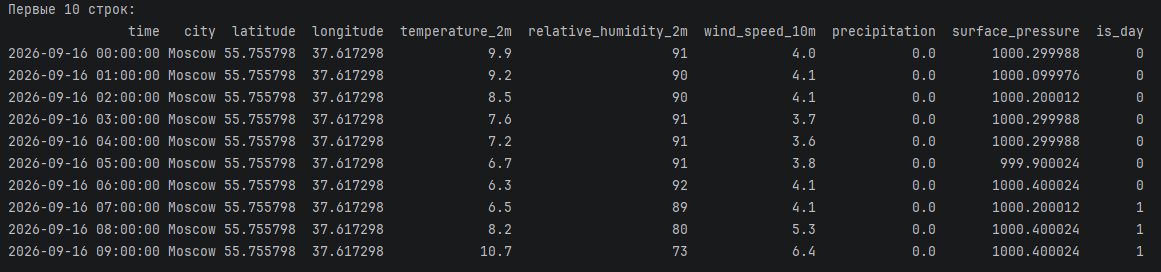
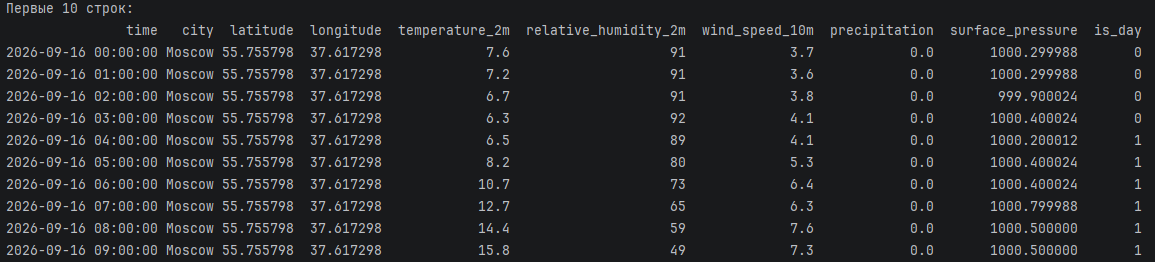
HW4: address review — UTC, forecast_days=1, nullable is_day, backoff

diff --git a/scripts/read_api.py b/scripts/read_api.py
@@ -9,6 +9,9 @@ API-ключ не требуется, лимит ~10 000 запросов/сут
 Что собираем:
     почасовую погоду в нескольких городах за последние N дней.
 
+Время запрашиваем в UTC, чтобы разные города можно было сравнивать
+между собой по меткам времени.
+
 Результат:
     data/weather_hourly.parquet  (в .gitignore, в репо не попадает)
 """
@@ -45,14 +48,14 @@ HOURLY_VARS = [
 ]
 
 PAST_DAYS = 30
+# Прогноз не нужен: 1 — минимальное значение (0 не принимается API).
+FORECAST_DAYS = 1
+# Все города — в UTC, иначе сравнивать их по времени некорректно.
+TIMEZONE = "UTC"
+
 TIMEOUT = 20
 RETRIES = 3
-RETRY_PAUSE = 2.0
-
-PROJECT_ROOT = Path(__file__).resolve().parent.parent
-DATA_DIR = PROJECT_ROOT / "data"
-DATA_DIR.mkdir(exist_ok=True)
-OUT_PATH = DATA_DIR / "weather_hourly.parquet"
+RETRY_PAUSE = 2.0   # базовая пауза; растёт экспоненциально: 2, 4, 8 сек
 
 
 # ----------------------------------------------------------------------
@@ -62,17 +65,19 @@ def fetch_city(name: str, lat: float, lon: float) -> dict:
     """
     Один запрос к Open-Meteo для одного города.
 
-    :param name: название города
+    :param name: название города (для логов)
     :param lat: широта
     :param lon: долгота
     :return: JSON-ответ как dict
+    :raises RuntimeError: если все попытки исчерпаны
     """
     params = {
         "latitude": lat,
         "longitude": lon,
         "hourly": ",".join(HOURLY_VARS),
         "past_days": PAST_DAYS,
-        "timezone": "auto",
+        "forecast_days": FORECAST_DAYS,
+        "timezone": TIMEZONE,
     }
 
     last_exc: Exception | None = None
@@ -81,12 +86,14 @@ def fetch_city(name: str, lat: float, lon: float) -> dict:
             r = requests.get(API_URL, params=params, timeout=TIMEOUT)
             r.raise_for_status()
             return r.json()
-        except Exception as e:  # noqa: BLE001
+        except requests.RequestException as e:
             last_exc = e
             if attempt == RETRIES:
                 break
-            print(f"  [{name}] попытка {attempt} не удалась: {e}")
-            time.sleep(RETRY_PAUSE)
+            # экспоненциальный backoff: 2, 4, 8, ...
+            delay = RETRY_PAUSE * (2 ** (attempt - 1))
+            print(f"  [{name}] попытка {attempt} не удалась: {e} → пауза {delay:.0f}s")
+            time.sleep(delay)
 
     raise RuntimeError(f"Не удалось получить данные для {name}: {last_exc}")
 
@@ -130,13 +137,20 @@ def cast_types(df: pd.DataFrame) -> pd.DataFrame:
     - city → category
     - координаты и физические величины → float32
     - humidity → Int8 (nullable)
-    - is_day → int8 (бинарный флаг)
+    - is_day → Int8 (nullable)
     """
     df = df.copy()
 
-    df["time"] = pd.to_datetime(df["time"], errors="coerce")
+    # --- время: явно ns, чтобы не зависеть от разрешения pandas ---
+    df["time"] = pd.to_datetime(df["time"], errors="coerce").astype("datetime64[ns]")
+    n_bad_time = int(df["time"].isna().sum())
+    if n_bad_time:
+        print(f"  [!] {n_bad_time} некорректных меток времени → NaT")
+
+    # --- категориальный признак ---
     df["city"] = df["city"].astype("category")
 
+    # --- float32 ---
     float_cols = [
         "latitude", "longitude",
         "temperature_2m", "wind_speed_10m",
@@ -146,17 +160,18 @@ def cast_types(df: pd.DataFrame) -> pd.DataFrame:
         if col in df.columns:
             df[col] = pd.to_numeric(df[col], errors="coerce").astype("float32")
 
+    # --- Int8 (nullable) — влажность ---
     if "relative_humidity_2m" in df.columns:
         df["relative_humidity_2m"] = (
             pd.to_numeric(df["relative_humidity_2m"], errors="coerce")
             .astype("Int8")
         )
 
+    # --- Int8 (nullable) — флаг дня; пропуски остаются пропусками ---
     if "is_day" in df.columns:
         df["is_day"] = (
             pd.to_numeric(df["is_day"], errors="coerce")
-            .fillna(0)
-            .astype("int8")
+            .astype("Int8")
         )
 
     ordered = [
@@ -169,31 +184,48 @@ def cast_types(df: pd.DataFrame) -> pd.DataFrame:
 
 
 # ----------------------------------------------------------------------
+# Проверка качества
+# ----------------------------------------------------------------------
+def validate(df: pd.DataFrame) -> None:
+    """Печатает краткий отчёт о качестве датасета."""
+    print("\n=== Отчёт о качестве ===")
+    print(f"Строк:         {len(df)}")
+    print(f"Городов:       {df['city'].nunique()}")
+    print(f"Временной диапазон: {df['time'].min()} .. {df['time'].max()}")
+
+    print("\nПропуски по столбцам:")
+    na = df.isna().sum()
+    for col, cnt in na.items():
+        if cnt:
+            print(f"  {col:<24} {cnt} ({cnt / len(df) * 100:.2f}%)")
+    if not na.any():
+        print("  нет пропусков")
+
+    dup = df.duplicated(subset=["city", "time"]).sum()
+    print(f"\nДубликаты (city, time): {dup}")
+
+
+# ----------------------------------------------------------------------
 # main
 # ----------------------------------------------------------------------
 def main() -> None:
-    print(f"Open-Meteo: почасовая погода за последние {PAST_DAYS} дней\n")
+    print(f"Open-Meteo: почасовая погода за последние {PAST_DAYS} дней (UTC)\n")
 
     df = cast_types(build_dataframe())
 
     print("\nСобрано:", df.shape)
     print(df.dtypes)
 
-    df.to_parquet(OUT_PATH, index=False, engine="pyarrow")
-    print(f"\nParquet сохранён: {OUT_PATH}")
+    validate(df)
 
-    summary = (
-        df.groupby("city", observed=True)
-        .agg(
-            rows=("time", "size"),
-            t_min=("temperature_2m", "min"),
-            t_max=("temperature_2m", "max"),
-            wind_mean=("wind_speed_10m", "mean"),
-        )
-        .round(2)
-    )
-    print("\nСводка по городам:")
-    print(summary)
+    # Папку data/ создаём только в момент запуска — не при импорте модуля.
+    project_root = Path(__file__).resolve().parent.parent
+    data_dir = project_root / "data"
+    data_dir.mkdir(exist_ok=True)
+    out_path = data_dir / "weather_hourly.parquet"
+
+    df.to_parquet(out_path, index=False, engine="pyarrow")
+    print(f"\nParquet сохранён: {out_path}")
 
     print("\nПервые 10 строк:")
     print(df.head(10).to_string(index=False))

diff --git a/scripts/README.md b/scripts/README.md
@@ -8,7 +8,15 @@
 
 ## Что собираем
 
-Почасовую погоду за последние 30 дней в 5 городах:
+Почасовую погоду за последние **30 дней** в 5 городах.
+
+Все метки времени — в **UTC**. Так города можно корректно сопоставлять
+друг с другом: `14:00` в Moscow и `14:00` в Tokyo соответствуют одному
+и тому же моменту физического времени.
+
+Прогнозные значения не собираем: в запросе явно указано
+`forecast_days=1` (минимум, разрешённый API), чтобы в датасет
+попадали только наблюдения, без примеси прогноза.
 
 | Город | Широта | Долгота |
 |---|---|---|
@@ -22,7 +30,7 @@
 
 | Поле | Тип | Описание |
 |---|---|---|
-| `time` | `datetime64[ns]` | момент наблюдения |
+| `time` | `datetime64[ns]` | момент наблюдения (UTC) |
 | `city` | `category` | город |
 | `latitude` / `longitude` | `float32` | координаты |
 | `temperature_2m` | `float32` | температура на 2 м, °C |
@@ -30,7 +38,7 @@
 | `wind_speed_10m` | `float32` | скорость ветра на 10 м, км/ч |
 | `precipitation` | `float32` | осадки, мм |
 | `surface_pressure` | `float32` | давление, гПа |
-| `is_day` | `int8` | 1 = день, 0 = ночь |
+| `is_day` | `Int8` | 1 = день, 0 = ночь (nullable) |
 
 ## Как запустить
 
@@ -48,17 +56,22 @@ python scripts/read_api.py
 
 ![head.png](head.png)
 
-### Сводка по городам
+### Отчёт о качестве
 
-![summary.png](summary.png)
+![summary.png](summary.png)!
 
 ## Воспроизводимость
 
 - Один HTTP-запрос на город (5 запросов за прогон).
-- Retry с паузой 2 сек, до 3 попыток — на сетевые ошибки.
-- Лимит Open-Meteo для non-commercial использования: до 10 000 запросов в сутки. 
-- Данные распространяются под лицензией CC BY 4.0 — при публикации результатов нужна ссылка на open-meteo.com.
-- Типы приведены: `datetime64[ns]`, `category`, `float32`, `Int8`, `int8`.
-- Сохранение в Parquet (`pyarrow`) — компактно и без потери типов.
-- Количество строк может отличаться от 30 × 24 × 5 = 3600,
-  потому что Open-Meteo отдаёт данные с запасом на текущие сутки.
+- Повторные попытки при сетевых ошибках: 3 попытки с экспоненциальной
+паузой 2 → 4 → 8 секунд. Ловятся только requests.RequestException,
+чтобы не маскировать ошибки в собственном коде. 
+- Лимит Open-Meteo для non-commercial использования: до 10 000 запросов
+в сутки. 
+- Данные распространяются под лицензией CC BY 4.0 — при публикации
+результатов нужна ссылка на open-meteo.com. 
+- Типы приведены: datetime64[ns], category, float32, Int8,
+Int8 (nullable). 
+- Сохранение в Parquet (pyarrow) — компактно и без потери типов. 
+- После сборки печатается отчёт о качестве: число строк, городов,
+временной диапазон, пропуски по столбцам, дубликаты по (city, time).
